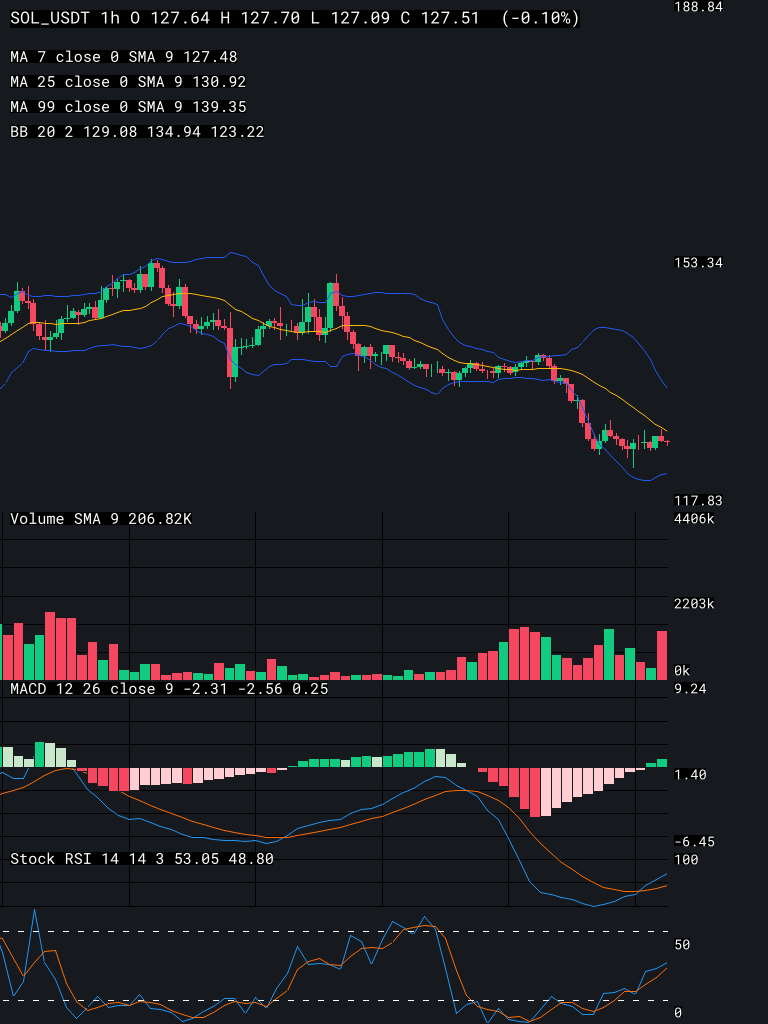
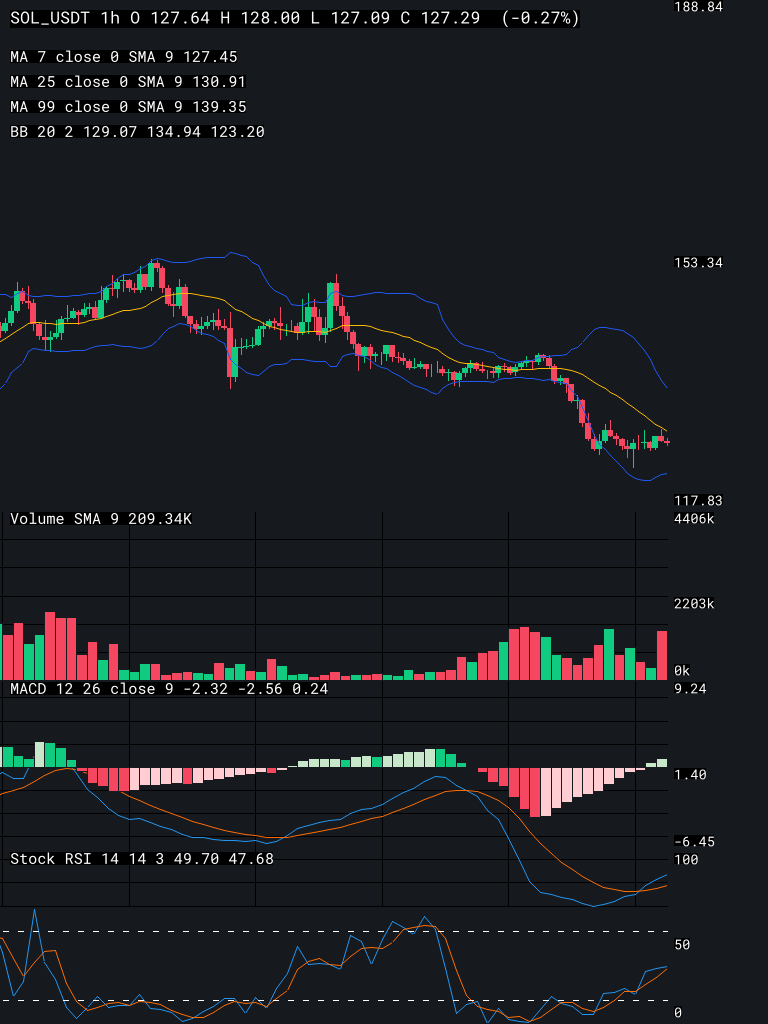
fix: green candle, build all

diff --git a/feeder/src/lib.rs b/feeder/src/lib.rs
@@ -45,17 +45,20 @@ pub async fn handle_chart(_: Request, ctx: RouteContext<()>) -> worker::Result<R
             }
         };
 
-        // Get chart metadata
-        let chart_metadata = ChartMetaData {
-            title: format!("{pair_symbol} {timeframe}"),
-        };
+        // TODO: Define chart metadata
+        // let chart_metadata = ChartMetaData {
+        //     title: format!("{pair_symbol} {timeframe}"),
+        // };
 
         // Get image
         let buffer_result = Chart::new(timeframe, Tokyo)
+            .with_candle_width(6)
             .with_past_candle(candle_data)
-            .with_title(&chart_metadata.title)
+            .with_title(pair_symbol)
             .with_font_data(font_data)
+            .with_volume()
             .with_macd()
+            .with_stoch_rsi()
             .with_bollinger_band()
             .build();
 

diff --git a/feeder/src/charts/candle.rs b/feeder/src/charts/candle.rs
@@ -1146,9 +1146,9 @@ fn draw_macd(
 
             let fill_color = if *h > 0.0 {
                 if is_lower {
-                    GREEN_100
-                } else {
                     B_GREEN
+                } else {
+                    GREEN_100
                 }
             } else if is_lower {
                 B_RED
